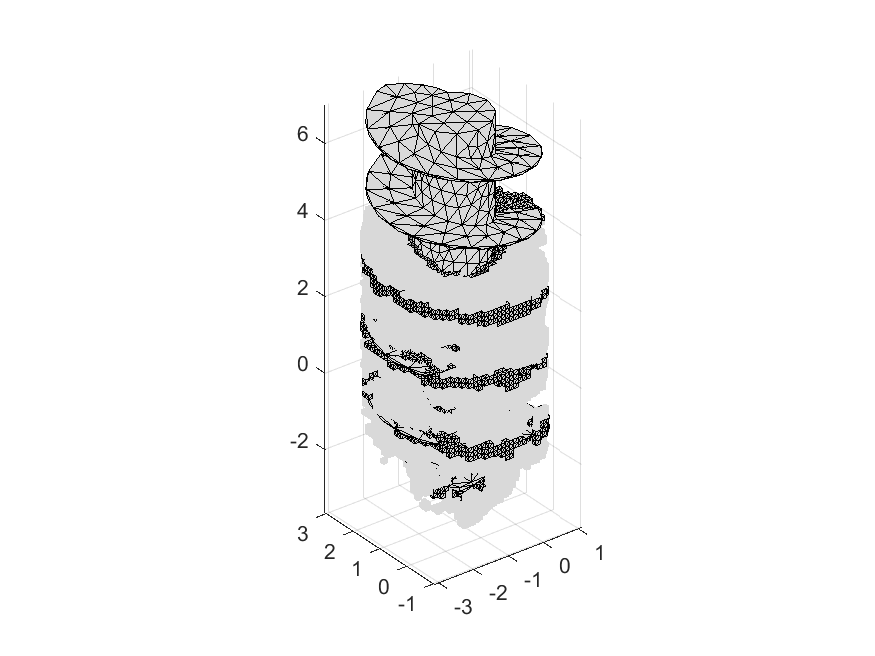
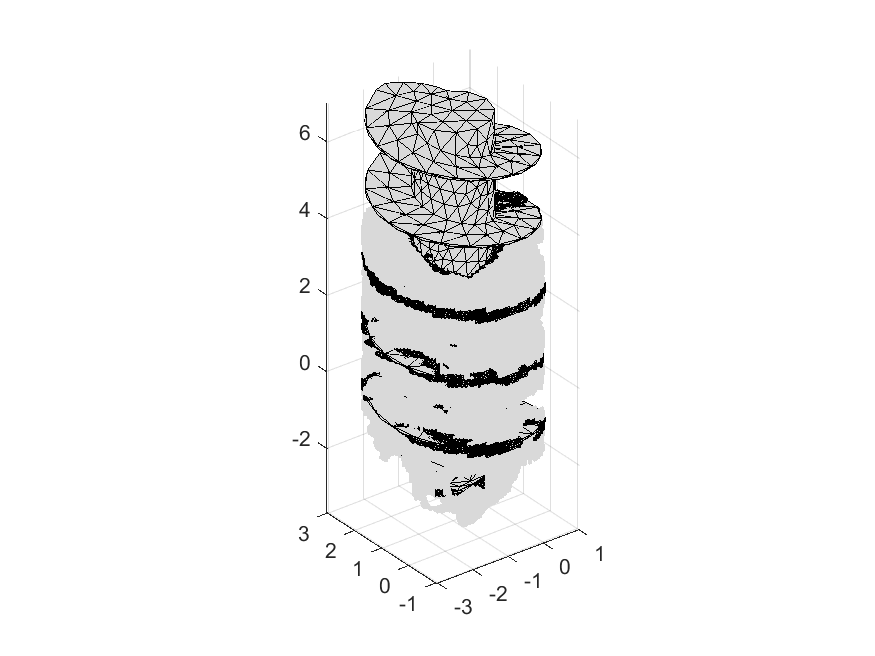
para settings

diff --git a/voxelMesh/abaInpData.m b/voxelMesh/abaInpData.m
@@ -3,7 +3,7 @@ function abaData = abaInpData(abaData)
 abaData.Bone.MAT.matName = 'Bone';
 abaData.Bone.MAT.varDens = '1.89e-09';
 if ~isfield(abaData.Bone.MAT, 'vaEL')
-    abaData.Bone.MAT.vaEL = [10000, 0.3]; % Young's modulus and Poisson's ratio
+    abaData.Bone.MAT.vaEL = [18000, 0.3]; % Young's modulus and Poisson's ratio
 end
 if ~isfield(abaData.Bone.MAT, 'varCDPPlas')
     abaData.Bone.MAT.varCDPPlas = [40.0, 0.1, 1.16, 0.6667, 0.0]; % CDP plasticity table
@@ -15,7 +15,7 @@ if ~isfield(abaData.Bone.MAT.comp, 'sigmaY')
     abaData.Bone.MAT.comp.sigmaY = 150;         % compression yield stress [MPa]
 end
 if ~isfield(abaData.Bone.MAT.comp, 'sigmaUYD')
-    abaData.Bone.MAT.comp.sigmaUYD = 50;        % compression ultimate stress [MPa]
+    abaData.Bone.MAT.comp.sigmaUYD = 50;        % compression ultimate-yield stress [MPa]
 end
 abaData.Bone.MAT.comp.sigmaU = abaData.Bone.MAT.comp.sigmaY + abaData.Bone.MAT.comp.sigmaUYD;
 if ~isfield(abaData.Bone.MAT.comp, 'epsilonU')
@@ -86,11 +86,11 @@ abaData.Screw.eleDel = 'NO';
 % abaData.Screw.Part.partNum = 1;
 
 %% Abaqus parameters General
-abaData.mSFactor = '5e-06';
+abaData.mSFactor = '2.5e-06';
 if ~isfield(abaData, 'fricCoeef')
-    abaData.fricCoeef = 0.01;
+    abaData.fricCoeef = 0.30;
 end
-abaData.displacement = 1.0;
+abaData.displacement = 0.5;
 % abaData.BC.BCTop.Name = 'ScrewTop';
 abaData.Parts = {'Screw', 'Bone'};
 

diff --git a/voxelMesh/testVoxelMeshRF.m b/voxelMesh/testVoxelMeshRF.m
@@ -9,7 +9,7 @@ tic
 %% load bone micro-CT
 folder_name = 'RF_20_R_VOIs';
 pixelSize = 11.953001/1000; % unit: mm, same as Abaqus unit
-scaleFac = 0.10; % scale factor of the model, 0.1 means 1/10 voxels in one dimension
+scaleFac = 0.20; % scale factor of the model, 0.1 means 1/10 voxels in one dimension
 im = importImSeqs(folder_name);
 %% load Screw mesh
 load screwMesh.mat
@@ -93,7 +93,7 @@ fileName = 'printInpTemp';
 nodeS = abaInp(fileName, abaData); % generate inp file
 toc
 %% plot mesh
-screwBoneMesh = figure(1);
+screwBoneMesh = figure(5);
 plotMesh(abaData.Bone.Elements(:,2:9), nodeCoor, 1, '-'); % 'none' for no edges
 % volshow(imSca, 'ScaleFactors', [pixelSizeSca,pixelSizeSca,pixelSizeSca]);
 hold on;
